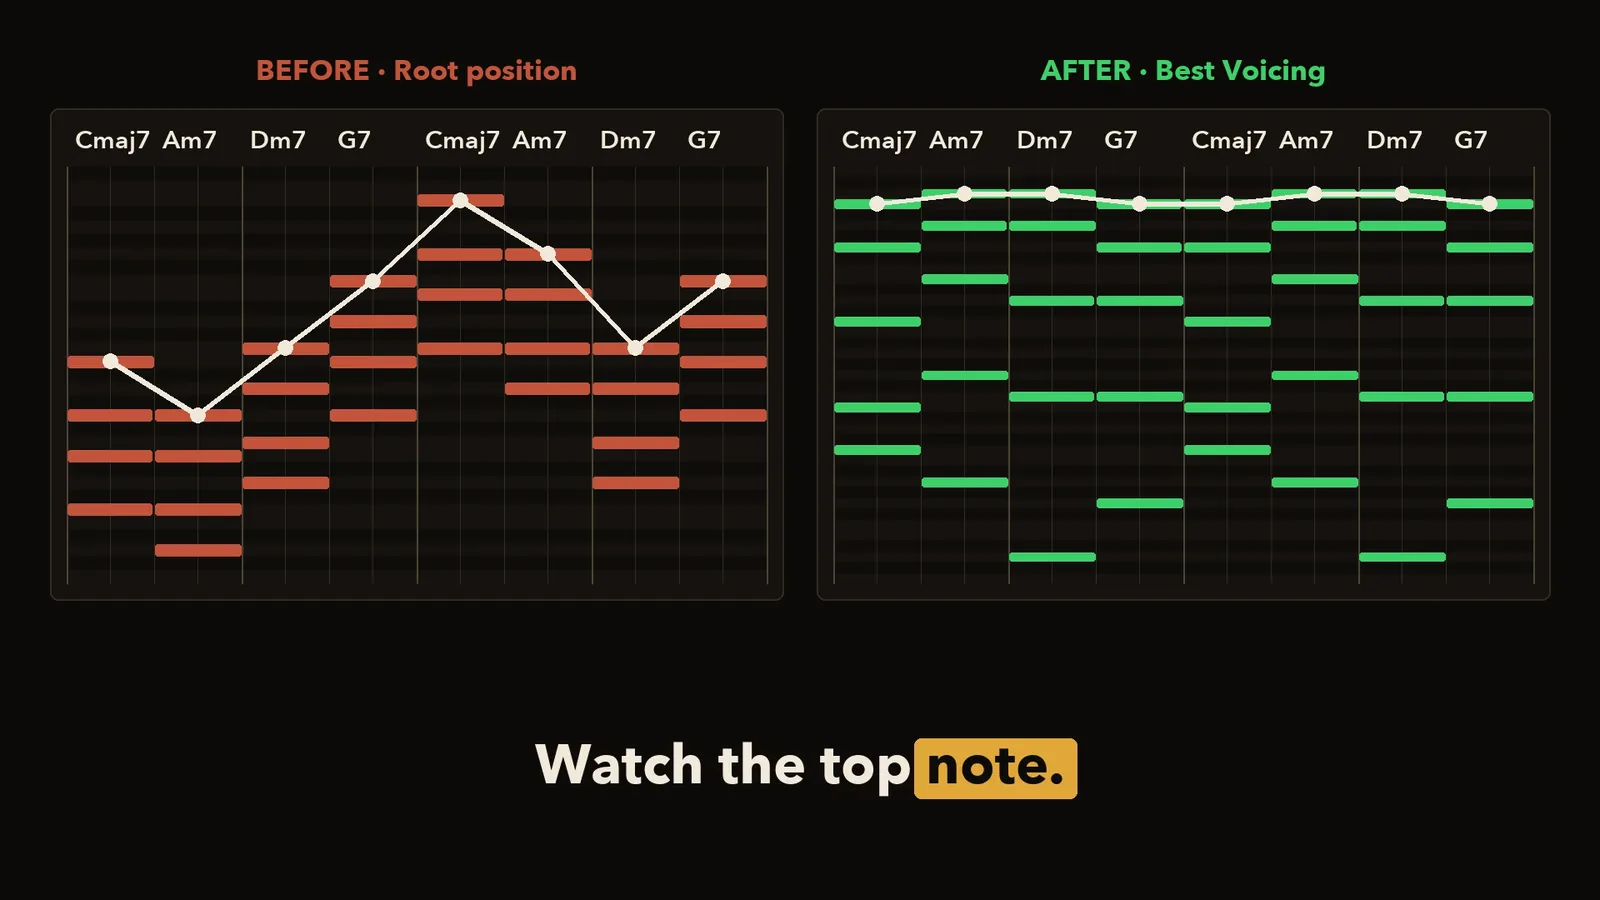
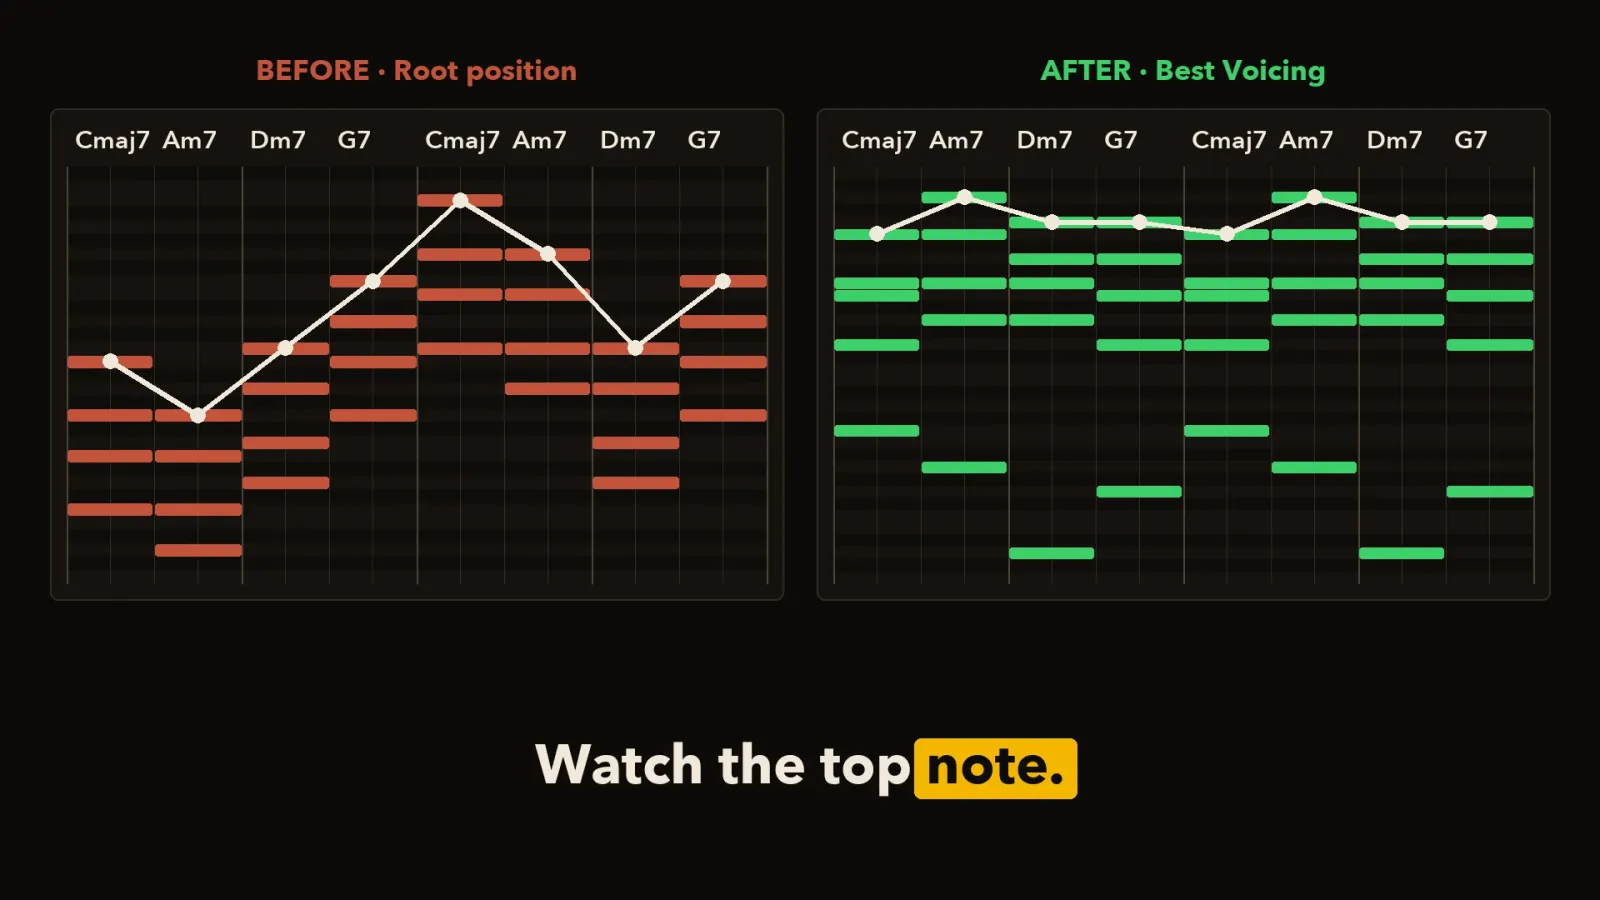
Jazz: the PDF guide as bonus 6, a Commercial License card, and a VSL with today's pack
"aggiungi la guida ai bonus", "aggiungi COMMERCIAL LICENSE image come sta su altri funnels",
"cambia anche la VSL con il nuovo numero di files", "aggiorna anche altre cose nella pagina se serve":
- Bonus 6 "The Jazz MIDI Pack Guide (PDF)" (value 17, in the pack's zip, no file of its own),
  cover bonus-6-*.webp rendered from bonus 2's. Six bonuses, two PDFs, total value 299.
- A commercial license card (license-*.webp, generated from Famous Beats' card: "JAZZ MIDI PACK",
  "10,496 MIDI FILES") under the guarantee, with the FAQ's terms; blended into the page colour.
  The offer stack gets "Commercial license: release and sell your beats, no royalties".
- VSL u5f87ncaux (6:16, still kogs5rd7zh): 10,496 files, 12 voicings, the lower Best Voicing in
  the demos ("between E, F and G"), six bonuses with a line for the guide, no "grand piano"
  (the demos are the sine). Every changed line checked with speech-to-text.
- Meta description "+ 6 bonuses". The same copy changes in the editor's published page and draft.

diff --git a/app/(funnels)/jazz-midi-pack/funnel.ts b/app/(funnels)/jazz-midi-pack/funnel.ts
@@ -21,12 +21,15 @@ export const funnel = {
   tagline: "The most used jazz progressions, 12 voicings × 8 rhythms, all 12 keys",
   price: { eur: 27, usd: 27 },
   // The hero video: Wistia media, in Wistia's player (Vsl.tsx). Its thumbnail
-  // is a frame of the video itself (84.5 s, "Watch the top note.", Wistia still
-  // 5uwmgd0ifh; "no custom image", 2026-11-02), also saved as
+  // is a frame of the video itself (85.3 s, "Watch the top note.", Wistia still
+  // kogs5rd7zh since 2026-11-05; "no custom image", 2026-11-02), also saved as
   // public/funnels/jazz-midi-pack/vsl-en-1600.webp for link previews. Script: vsl/script-en.md.
   // lh4kzjb92h since 2026-11-01: voice Aaron on eleven_v4 and the demos on the
   // sine synth (the old cut mnet4ow8rz sounded "robotic and weird").
-  vsl: { wistiaId: "lh4kzjb92h" },
+  // u5f87ncaux since 2026-11-05: the same script with today's pack (10,496 files, 12 voicings, the lower
+  // Best Voicing in the demos, six bonuses with the PDF guide, no "grand piano"), re-voiced with Aaron
+  // ("cambia anche la VSL con il nuovo numero di files"). mvptgv9u24 was the cut with five bonuses.
+  vsl: { wistiaId: "u5f87ncaux" },
   // The old €9 tick-box offer. Since 2026-10-16 the checkout no longer shows it
   // (the Chord Pack is bonus 1); it stays so orders that bought it still verify.
   bump: {
@@ -111,6 +114,16 @@ export const funnel = {
       midi: 0,
       value: 27,
       inside: ["47 WAV drum loops, BPM in every name", "Pop & ballads, hip hop & trap, dance & electronic, vintage & rock"],
+    },
+    // The PDF guide inside the pack's zip (make_guide.py), a bonus since 2026-11-05 ("aggiungi la guida ai bonus").
+    // No file of its own: it comes with the pack, so unlocked() skips it.
+    {
+      id: "guide",
+      name: "The Jazz MIDI Pack Guide (PDF)",
+      count: "PDF guide, every progression charted",
+      midi: 0,
+      value: 17,
+      inside: ["How voice leading works, in one page", "The 12 voicings and 8 rhythms: what each is for", "Every progression with its key, length and chords, bar by bar"],
     },
   ],
   value: { pack: 97 },

diff --git a/app/(funnels)/jazz-midi-pack/sections.tsx b/app/(funnels)/jazz-midi-pack/sections.tsx
@@ -896,7 +896,7 @@ function Bonuses({ p, patch, ctx }: { p: SectionProps["s_bonuses"]; patch?: Patc
               <li key={i} className={ih.on("cover") ? bn.bonus : `${bn.bonus} ${bn.bare}`}>
                 {ih.on("cover") && (
                   <div className={ih.host(bn.cover)}>
-                    {i < 5 && (
+                    {i < 6 && (
                       <img
                         src={`${DIR}/bonus-${i + 1}-360.webp`}
                         srcSet={`${DIR}/bonus-${i + 1}-360.webp 360w, ${DIR}/bonus-${i + 1}-640.webp 640w`}
@@ -1169,6 +1169,29 @@ function Guarantee({ p, patch, ctx }: { p: SectionProps["s_guarantee"]; patch?: 
             <T v={p.text} set={patch && ((v) => patch({ text: v }))} ctx={ctx} as="p" className={s.sub} />
           </Part>
         </div>
+        </div>
+        {/* The license card under the guarantee, like Famous Beats' "Commercial license" tile (2026-11-05,
+            "aggiungi COMMERCIAL LICENSE image come sta su altri funnels"). The card is generated from that one. */}
+        <div className={`${s.guarantee} ${s.two} ${s.license}`}>
+          <div className={`${s.twoBody} ${s.licenseArt}`}>
+            <img
+              src={`${DIR}/license-640.webp`}
+              srcSet={`${DIR}/license-420.webp 420w, ${DIR}/license-640.webp 640w, ${DIR}/license-900.webp 900w`}
+              sizes="(min-width: 1000px) 420px, 90vw"
+              width={1168}
+              height={880}
+              alt="GRIND STUDIO commercial license card for the Jazz MIDI Pack"
+              loading="lazy"
+              decoding="async"
+            />
+          </div>
+          <div className={s.twoHead}>
+            <h2 className={s.h2}>Commercial license.</h2>
+            <p className={s.sub}>
+              Use every file in your own music, commercial releases included: sell the beats, lease them, put them out. The money is
+              yours, no royalties. You just can&rsquo;t resell or share the MIDI files themselves.
+            </p>
+          </div>
         </div>
       </div>
     </section>

diff --git a/app/(funnels)/jazz-midi-pack/content.ts b/app/(funnels)/jazz-midi-pack/content.ts
@@ -237,8 +237,8 @@ export const DEFAULT_SECTIONS: Section[] = [
     type: "s_bonuses",
     props: {
       eyebrow: "Free with the pack",
-      title: "Five bonuses. All in the {price}.",
-      sub: "4,197 more MIDI files, 305 WAV loops and a PDF, on the same download page as the pack. Press play on any of them.",
+      title: "Six bonuses. All in the {price}.",
+      sub: "4,197 more MIDI files, 305 WAV loops and two PDFs, on the same download page as the pack. Press play on any of them.",
       items: [
         {
           name: "MIDI Chord Pack (Jazz Edition)",
@@ -260,6 +260,10 @@ export const DEFAULT_SECTIONS: Section[] = [
           name: "Drum Loops for Songwriting",
           text: "Drums to write over while the chords take shape.",
         },
+        {
+          name: "The Jazz MIDI Pack Guide (PDF)",
+          text: "The idea behind the pack, what every voicing and rhythm is for, and every progression's chords, bar by bar.",
+        },
       ],
     },
   },
@@ -276,6 +280,7 @@ export const DEFAULT_SECTIONS: Section[] = [
         "Walking, two-feel and bossa bass lines",
         "Lofi, neo soul, trap soul and deep house loops, drums included",
         "Chord names written into every file",
+        "Commercial license: release and sell your beats, no royalties",
       ],
       guarantee: "{days}-day satisfaction guarantee. A file doesn’t work? We fix it.",
     },

diff --git a/app/(funnels)/jazz-midi-pack/[currency]/page.tsx b/app/(funnels)/jazz-midi-pack/[currency]/page.tsx
@@ -39,7 +39,7 @@ export const metadata: Metadata = {
     "The most used jazz progressions, voiced the way a pianist plays them. 10,496 MIDI files: 12 voicings, 8 rhythms, all 12 keys, bass lines, lofi / neo soul / trap soul / deep house loops.",
   openGraph: {
     title: "The jazz progressions everyone wants, as drag-and-drop MIDI.",
-    description: "10,496 jazz MIDI files + 5 bonuses by GRIND STUDIO, voiced like a real pianist. Drag into your DAW.",
+    description: "10,496 jazz MIDI files + 6 bonuses by GRIND STUDIO, voiced like a real pianist. Drag into your DAW.",
     type: "website",
     url: "https://m.thegrind.studio/jazz-midi-pack",
     images: [{ url: "https://m.thegrind.studio/funnels/jazz-midi-pack/vsl-en-1600.webp", width: 1600, height: 900 }],

diff --git a/app/(funnels)/jazz-midi-pack/jazz.module.css b/app/(funnels)/jazz-midi-pack/jazz.module.css
@@ -1802,3 +1802,21 @@
     font-size: 48px;
   }
 }
+
+/* The commercial license card under the guarantee (sections.tsx Guarantee) */
+.license {
+  margin-top: 24px;
+}
+/* the section's content-visibility isolates blending, so the card's own box carries the page colour */
+.licenseArt {
+  background: var(--ink);
+}
+.licenseArt img {
+  /* the card's black background takes the page's near-black instead of showing as a box */
+  mix-blend-mode: lighten;
+  display: block;
+  width: 100%;
+  max-width: 420px;
+  height: auto;
+  margin: 0 auto;
+}

diff --git a/tools/jazz_vsl.py b/tools/jazz_vsl.py
@@ -57,12 +57,13 @@ DEMOS = {
 # forty-seven"): it gets these words, the captions show the digits again.
 SPOKEN = {
     "2,847": "two thousand, eight hundred and forty-seven",
-    "3,536": "three thousand, five hundred and thirty-six",
+    "10,496": "ten thousand four hundred ninety-six",
     "2,304": "two thousand, three hundred and four",
     "1,548": "one thousand, five hundred and forty-eight",
 }
 BONUSES = ["MIDI Chord Pack (Jazz Edition)", "The Chord Progressions Bible", "Anime & Video Games MIDI Pack",
-           "Emotional Keys MIDI Bundle", "Drum Loops for Songwriting"]
+           "Emotional Keys MIDI Bundle", "Drum Loops for Songwriting",
+           "The Jazz MIDI Pack Guide (PDF)"]
 
 
 def parse():

diff --git a/app/(funnels)/jazz-midi-pack/vsl/script-en.md b/app/(funnels)/jazz-midi-pack/vsl/script-en.md
@@ -40,7 +40,7 @@ Here's what a jazz pianist knows that a chord chart doesn't tell you. Pianists d
 
 [SHOW: compare]
 
-That's called voice leading. Watch the top note. In root position, it jumps up to seven semitones from chord to chord. Voice-led, it only moves between B and C, while the bass plays the roots. That's why a pianist sounds smooth, and a chord plugin sounds like a grid. The catch: learning it takes months of theory, and a piano you might not play.
+That's called voice leading. Watch the top note. In root position, it jumps up to seven semitones from chord to chord. Voice-led, it only moves between E, F and G, while the bass plays the roots. That's why a pianist sounds smooth, and a chord plugin sounds like a grid. The catch: learning it takes months of theory, and a piano you might not play.
 
 [SHOW: image stage-2200]
 
@@ -48,19 +48,19 @@ So we did it for you. We're GRIND STUDIO. Our MIDI Drum Kit is in the sessions o
 
 [SHOW: image box-900]
 
-That's 3,536 MIDI files, in five folders.
+That's 10,496 MIDI files, in five folders.
 
 [SHOW: image daw-1600]
 
-Folder one: the chords, in each progression's original key. Every progression, in 13 voicings and 8 rhythms. Ballad arpeggios, pads, bossa nova, swing comping, Charleston, and Freddie Green four to the bar.
+Folder one: the chords, in each progression's original key. Every progression, in 12 voicings and 8 rhythms. Ballad arpeggios, pads, bossa nova, swing comping, Charleston, and Freddie Green four to the bar.
 
-The 13 voicings go from Best Voicing, the one you just heard, to rootless Bill Evans voicings, drop two, voicings stacked in fourths, shells, two-hand spreads, and every inversion. The progressions are the ones jazz is built on. Two-five-ones in major and minor. Turnarounds. Tritone subs. Backdoor. Lady Bird. Autumn Leaves type changes. Rhythm changes. Jazz blues. Coltrane changes. A Train.
+The 12 voicings go from Best Voicing, the one you just heard, to rootless Bill Evans voicings, drop two, voicings stacked in fourths, shells, two-hand spreads, and every inversion. The progressions are the ones jazz is built on. Two-five-ones in major and minor. Turnarounds. Tritone subs. Backdoor. Lady Bird. Autumn Leaves type changes. Rhythm changes. Jazz blues. Coltrane changes. A Train.
 
 Folder two: every progression in all 12 keys, as voice-led pads. Folder three: bass lines. Walking, two-feel and bossa nova bass, for every progression. Folder four: combo loops. Piano, walking bass and ride cymbal, together. And folder five: genre loops. Every progression as lofi hip hop, neo soul, trap soul and deep house, with separate chords, bass and drum MIDI, plus a full multitrack file.
 
 [SHOW: none]
 
-Here's what that sounds like. Real files from the pack, played on a grand piano. Lofi. Autumn Leaves type.
+Here's what that sounds like. Real files from the pack. Lofi. Autumn Leaves type.
 
 [DEMO: lofi]
 
@@ -74,9 +74,9 @@ And you don't need any theory to use them. The chord names are written into ever
 
 Drag the file onto your keys. Rhodes, piano, pads, a synth, whatever you use. Change the key, swap the rhythm, add your drums. The voice leading stays. It works in any DAW that opens MIDI. Ableton, Logic, FL Studio, Cubase, Studio One, Reaper, Bitwig, GarageBand. And you can use it in your own releases, commercial ones included. No royalties.
 
-[SHOW: card 5 free bonuses]
+[SHOW: card 6 free bonuses]
 
-You also get five bonuses, free, on the same download page.
+You also get six bonuses, free, on the same download page.
 
 [SHOW: bonus 1]
 
@@ -96,11 +96,15 @@ Four: the Emotional Keys MIDI Bundle. Three volumes of songstarters, progression
 
 [SHOW: bonus 5]
 
-And five: 47 drum loops to write over.
+Five: 47 drum loops to write over.
+
+[SHOW: bonus 6]
+
+And six: a PDF guide. What every voicing and rhythm is for, and every progression's chords, bar by bar.
 
 [SHOW: card One payment]
 
-All of it, the pack and the five bonuses, is one payment. Your price is right below this video. No subscription. You download it right after you pay.
+All of it, the pack and the six bonuses, is one payment. Your price is right below this video. No subscription. You download it right after you pay.
 
 [SHOW: none]
 

diff --git a/app/(funnels)/jazz-midi-pack/BRIEF.md b/app/(funnels)/jazz-midi-pack/BRIEF.md
@@ -54,6 +54,11 @@ landing rules (`grind-studio-landing-pages/AGENTS.md`, `docs/landing-principles.
   crossed out, "Today" 27, "You save" 255. It reads as the bundle's worth, never as an earlier price of the pack.
 - Bundle total: 14,693 MIDI files = 10,496 (pack) + 2,304 + 150 + 1,548 + 195 (bonuses). The bonuses add 4,197 MIDI
   files, 305 WAV loops (258 Bible piano/e-piano loops + 47 drum loops) and a PDF. Counted 2026-11-01.
+- Since 2026-11-05 ("aggiungi la guida ai bonus", "aggiungi COMMERCIAL LICENSE image"): the PDF guide is bonus 6
+  ("The Jazz MIDI Pack Guide (PDF)", value 17, no file of its own: it's in the pack's zip; cover bonus-6-*.webp, a
+  render made from bonus 2's), so the stack totals 299 and the page says six bonuses and two PDFs. A commercial
+  license card (license-*.webp, generated from Famous Beats' card) sits under the guarantee, with the same terms as
+  the FAQ: own music and commercial releases, no royalties, no reselling or sharing the files. The offer stack says it too.
 - Angle (2026-11-04, replaces "everyone wants and nobody can write"): the producer who wants a jazz vibe in their beat and
   doesn't know how. The hero and the letter open on that feeling; lofi, neo soul and trap soul are the specifics (the pack's
   genre loops); the voicing is explained in its own block ("Why these chords sound played", beside the before/after rolls,
@@ -117,8 +122,8 @@ landing rules (`grind-studio-landing-pages/AGENTS.md`, `docs/landing-principles.
   ("patterns" → "chords", as Top Hits has them). Four more sit only in the editor's draft as placeholders
   ("Write the review here.", "First name L.") for the user to replace with real ones before publishing: no
   review written by us goes live. No Jazz-specific testimonials exist yet. Social proof = the `Proof` strip (the two numbers above + the guarantee), under the hero and the checkout.
-- Counts on the page: 10,496 = the pack; the bonuses add 4,197 MIDI; 14,693 only as "in total". The English VSL
-  (Wistia lh4kzjb92h) still says 3,536: recorded before the 2026-11-05 additions.
+- Counts on the page: 10,496 = the pack; the bonuses add 4,197 MIDI; 14,693 only as "in total". The English VSL is
+  Wistia u5f87ncaux since 2026-11-05 (10,496 files, 12 voicings, six bonuses; lh4kzjb92h said 3,536).
 
 ## Before / after (measured by `tools/extract_rolls.py` data, 2026-10-12)
 - File pair: "02 Pads - 05 I-vi-ii-V Turnaround", Root Position vs Best Voicing (same 8 chords, same rhythm).
